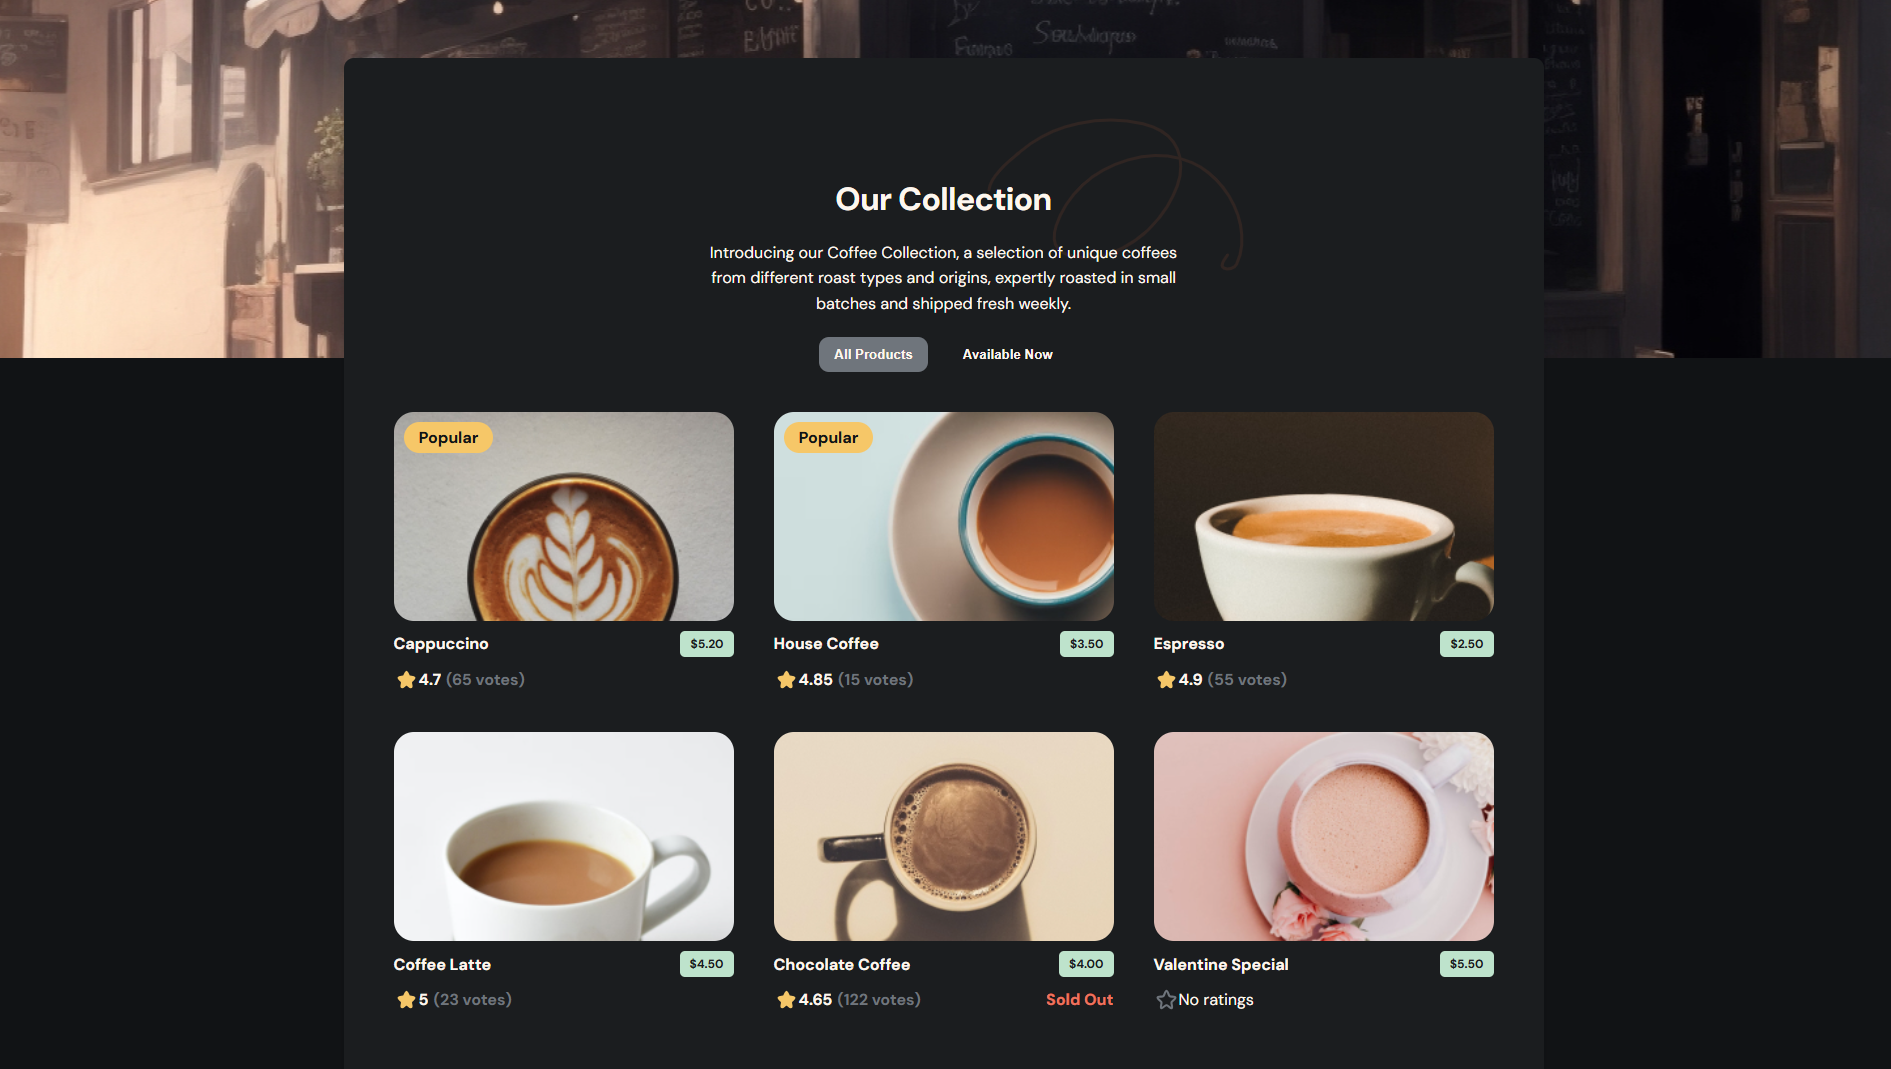
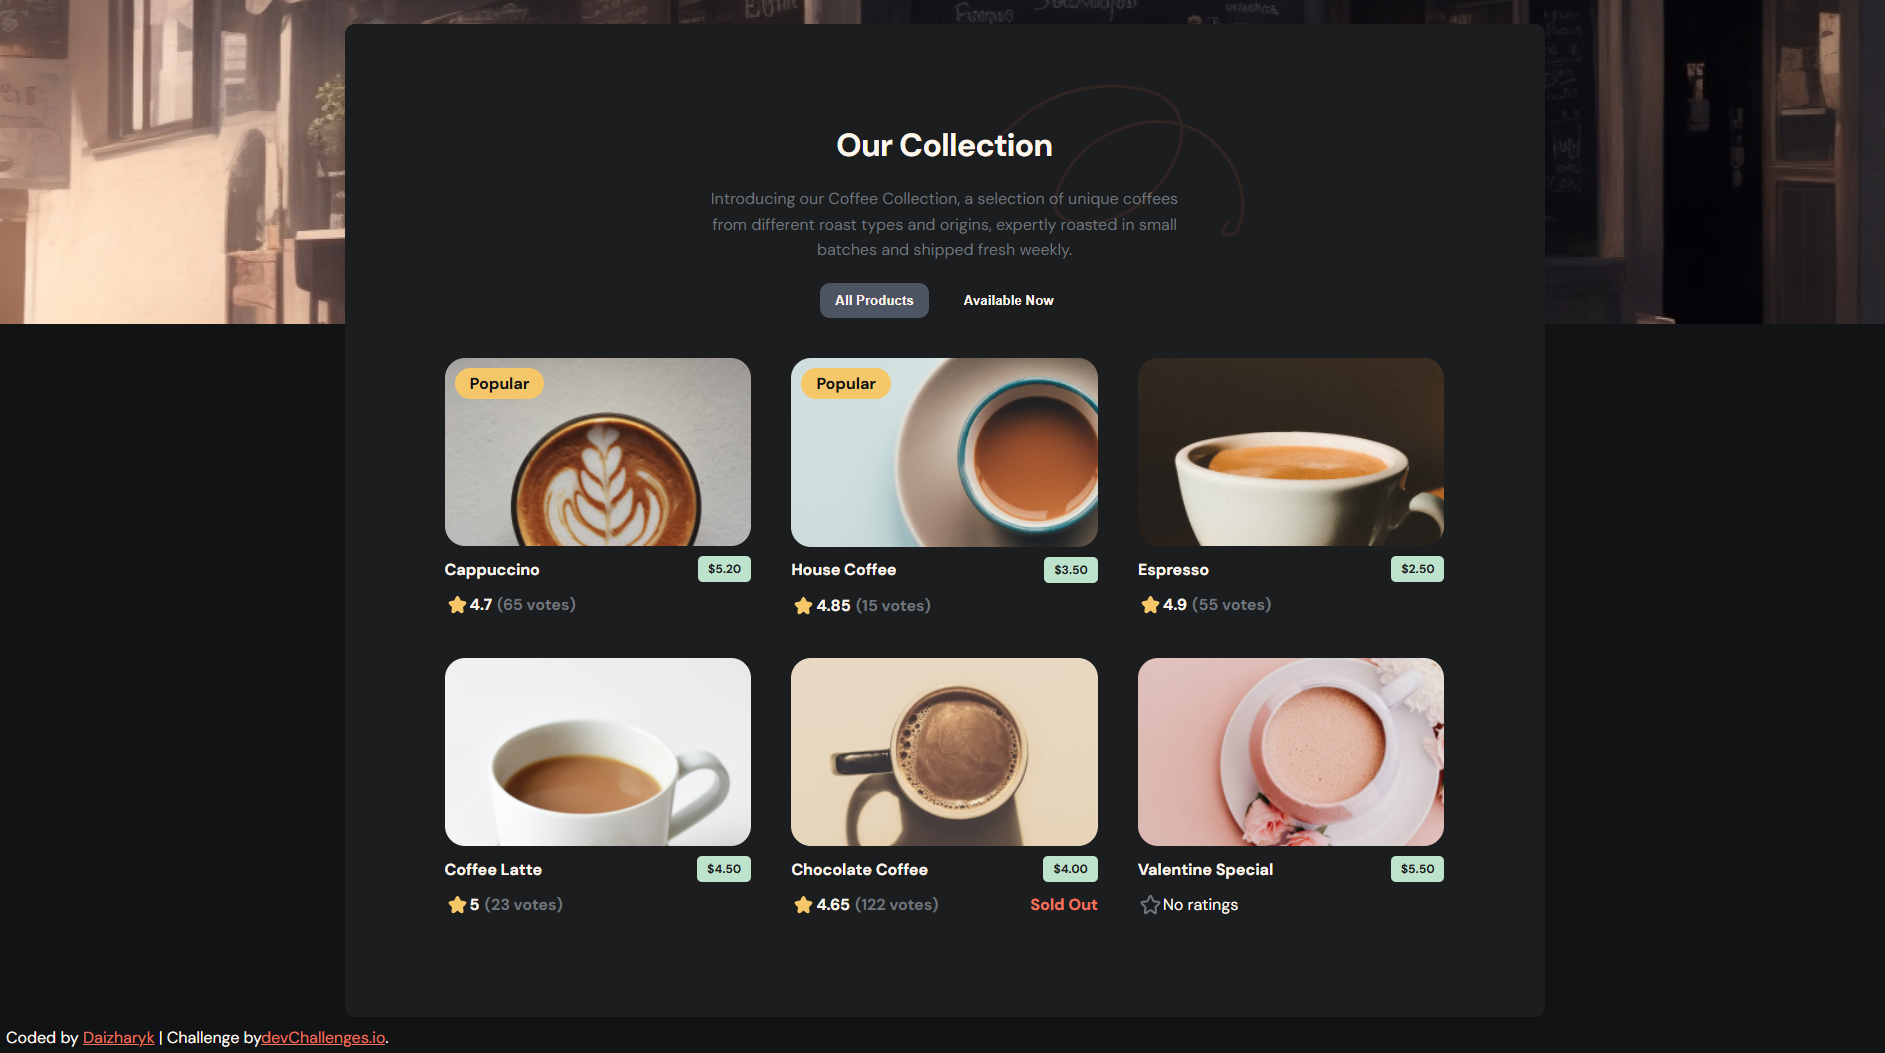
Updates

diff --git a/static/css/main.f7693855.css b/static/css/main.f7693855.css
@@ -1,0 +1,2 @@
+body{font-family:DM Sans,sans-serif;font-size:16px;height:100%}*,body{margin:0;padding:0}*{box-sizing:border-box}.background{align-items:center;background-color:#1b1d1f;border-radius:10px;box-shadow:0 4px 8px #0000001a;color:#fef7ee;display:flex;flex-direction:column;height:auto;margin:0 auto;max-width:1200px;padding:20px 70px;position:relative}.coffee-list{grid-gap:20px;display:grid;gap:20px;grid-template-columns:repeat(auto-fit,minmax(300px,1fr));margin-bottom:50px;padding:20px;width:100%}.buttons{display:flex;gap:20px;justify-content:center;margin-bottom:10px}.buttons button{background:none;border:0;border-radius:10px;color:#fef7ee;cursor:pointer;font-weight:600;padding:10px 15px;transition:all .3s}.btn.active{background-color:#4d5562}.buttons button:hover{background-color:#6f757c}h2{font-size:1rem}.rating-info{align-items:center;display:flex}.card{box-sizing:border-box;display:flex;flex-direction:column;gap:10px;height:100%;padding:10px;position:relative;width:100%}.card img{border-radius:20px;cursor:pointer;transition:all .2s}.card img:hover{box-shadow:0 4px 8px #6b6b6b33;scale:1.02}.tag{background-color:#f6c768;border-radius:20px;color:#111315;font-weight:700;margin:10px;padding:5px 15px;position:absolute}.votes{color:#6f757c;margin-left:5px}.card-title{margin:0}.card-rating,.card-title{align-items:center;display:flex;justify-content:space-between}.card-rating{gap:8px}.price{background-color:#bee3cc;border-radius:5px;color:#1b1d1f;font-size:.75rem;font-weight:700;padding:5px 10px}.star-icon{height:25px;justify-content:center;width:25px}.author-info{color:#fef7ee;margin:10px 0}.author-info a,.status{color:#ed735d}.status{font-weight:800}.rating-text{align-items:center;display:flex;font-weight:700}.collection-container p{color:#6f757c;font-size:1rem;line-height:1.6;margin:0 auto;max-width:500px;text-align:center}.collection-container{color:#fef7ee;display:flex;flex-direction:column;gap:20px;margin:80px 0 0;max-width:800px;text-align:center;z-index:1}.vector-svg{position:absolute;right:300px;top:60px}@media (max-width:500px){.vector-svg{right:0}.background{padding:20px 40px}.coffee-list{padding:0}}
+/*# sourceMappingURL=main.f7693855.css.map*/

diff --git a/index.html b/index.html
@@ -1,1 +1,1 @@
-<!doctype html><html lang="en"><head><meta charset="UTF-8"/><link rel="preconnect" href="https://fonts.googleapis.com"/><link rel="preconnect" href="https://fonts.gstatic.com" crossorigin/><link href="https://fonts.googleapis.com/css2?family=DM+Sans:ital,opsz,wght@0,9..40,100..1000;1,9..40,100..1000&display=swap" rel="stylesheet"/><meta name="viewport" content="width=device-width,initial-scale=1"/><title>Simple Coffee Listing</title><script defer="defer" src="/coffee-listing/static/js/main.fd462c24.js"></script><link href="/coffee-listing/static/css/main.d3b0c068.css" rel="stylesheet"></head><body><noscript>You need to enable JavaScript to run this app.</noscript><div id="root"></div></body></html>
+<!doctype html><html lang="en"><head><meta charset="UTF-8"/><link rel="preconnect" href="https://fonts.googleapis.com"/><link rel="preconnect" href="https://fonts.gstatic.com" crossorigin/><link href="https://fonts.googleapis.com/css2?family=DM+Sans:ital,opsz,wght@0,9..40,100..1000;1,9..40,100..1000&display=swap" rel="stylesheet"/><meta name="viewport" content="width=device-width,initial-scale=1"/><title>Simple Coffee Listing</title><script defer="defer" src="/coffee-listing/static/js/main.fd462c24.js"></script><link href="/coffee-listing/static/css/main.f7693855.css" rel="stylesheet"></head><body><noscript>You need to enable JavaScript to run this app.</noscript><div id="root"></div></body></html>
